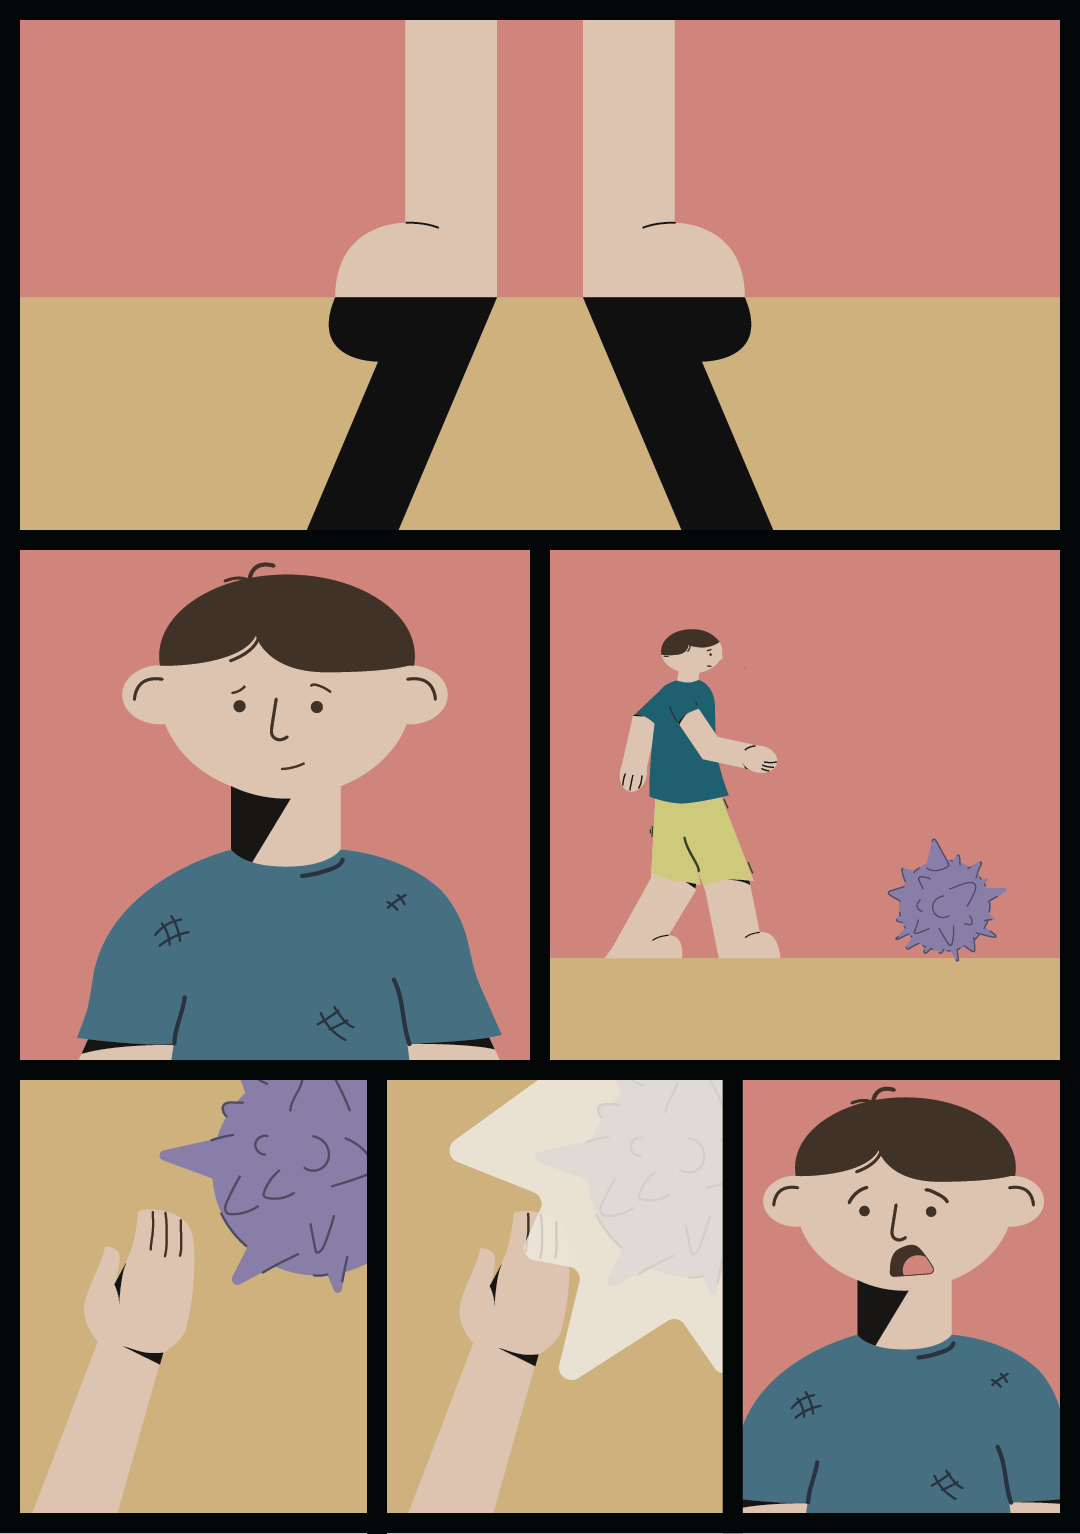
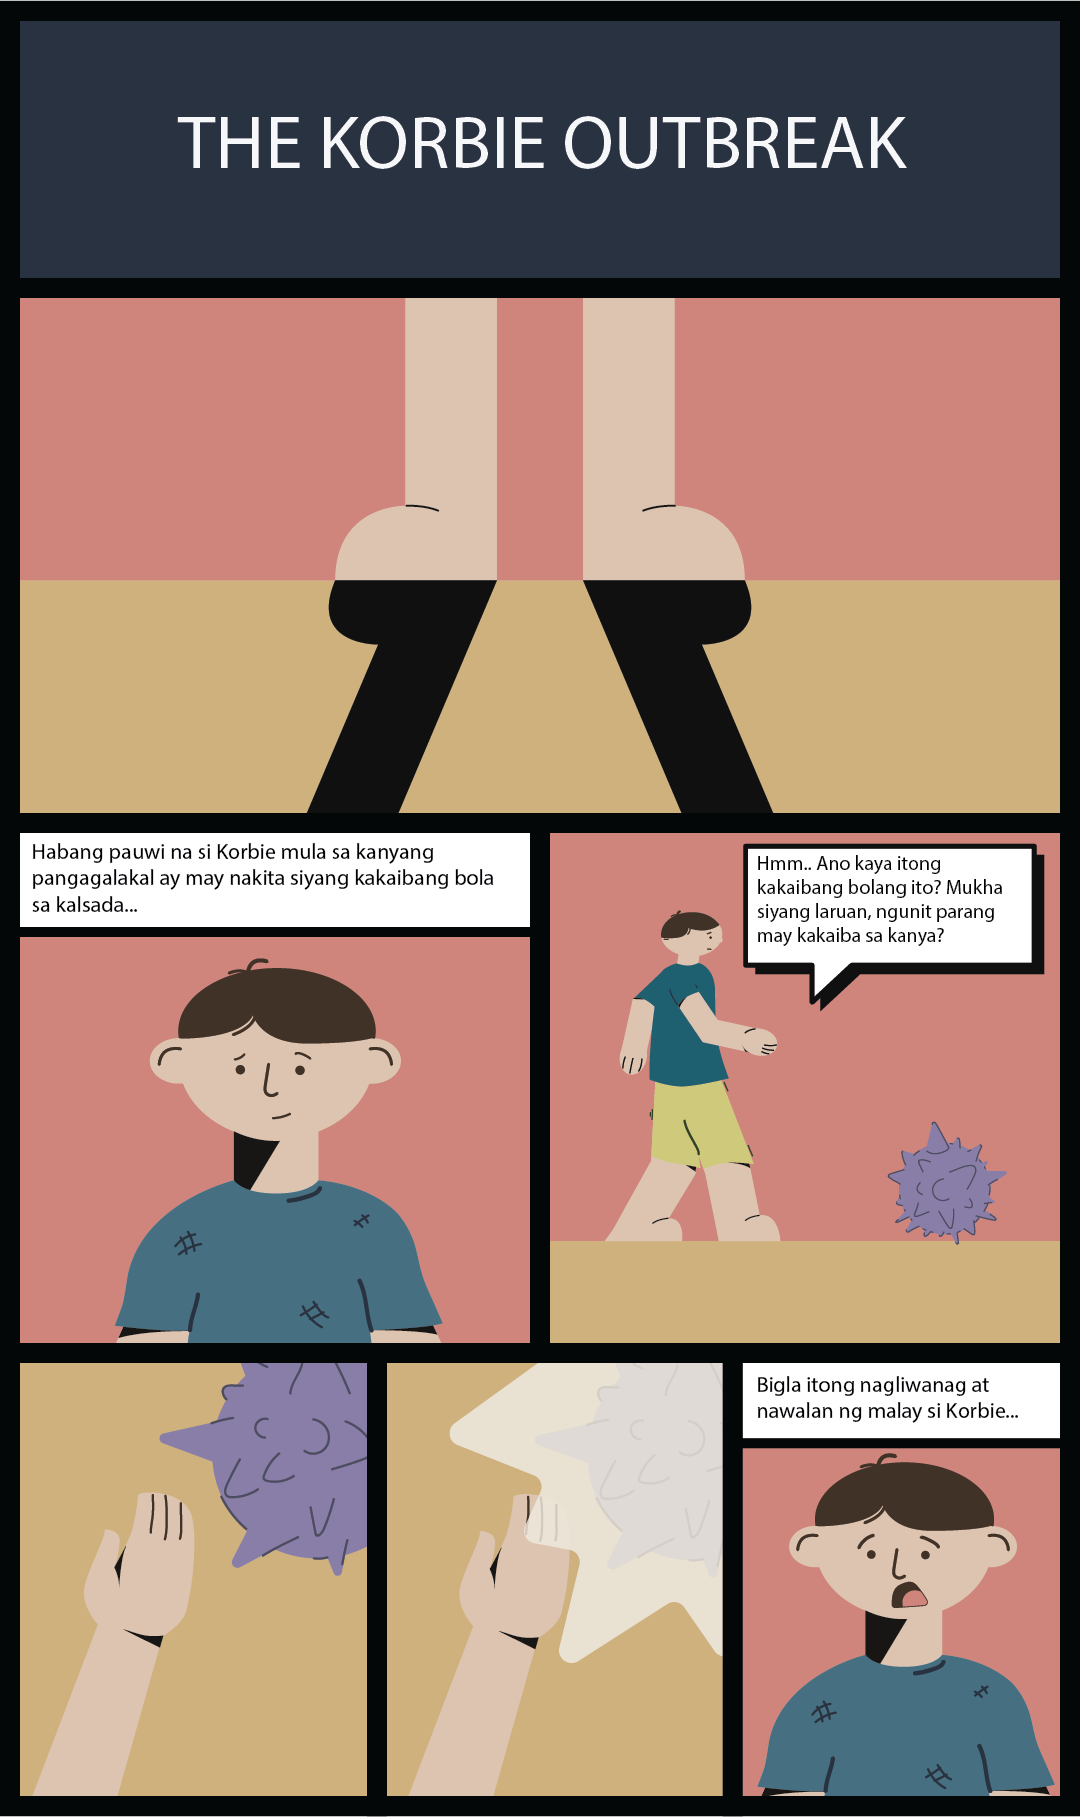
Updated: Assets

diff --git a/src/index.js b/src/index.js
@@ -27,31 +27,38 @@ const homeSwiper = new Swiper("#homeSwiper", {
 
 // INIT CHARACTERS
 // Import images first
-import sampleImage1 from "./assets/characters/sample-1.png";
-import sampleImage2 from "./assets/characters/sample-2.png";
+import imgFather from "./assets/characters/father.png";
+import imgKorbie from "./assets/characters/korbie.png";
+import imgPresident from "./assets/characters/president.png";
+import imgDoctor from "./assets/characters/doctor.png";
+import imgNurse from "./assets/characters/nurse.png";
 
-// Define Array of Characters
+// TODO: Define Character Details
 const characters = [
   {
-    name: "Sample Name 1",
-    subtitle: "Role / Subtitle",
-    description:
-      "Lorem ipsum, dolor sit amet consectetur adipisicing elit. Quae nisi ipsa accusamus quaerat obcaecati, laudantium ipsam dolorum. Amet repudiandae repellat eligendi sunt debitis pariatur quibusdam voluptates doloremque accusamus, saepe hic?",
-    image: sampleImage1,
+    name: "Korbie",
+    description: "The main character of the story.",
+    image: imgKorbie,
   },
   {
-    name: "Sample Name 2",
-    subtitle: "Role / Subtitle",
-    description:
-      "Lorem ipsum dolor sit amet consectetur adipisicing elit. Nam, non quasi nobis suscipit numquam sit ratione id similique. Quis maxime vitae voluptas, fugiat similique atque tempora sunt ea, fuga veritatis, corporis quas quidem quo at expedita nesciunt deserunt soluta impedit!",
-    image: sampleImage2,
+    name: "Korbie's Father",
+    description: "Father of Korbie",
+    image: imgFather,
   },
   {
-    name: "Sample Name 3",
-    subtitle: "Role / Subtitle",
-    description:
-      "Lorem ipsum, dolor sit amet consectetur adipisicing elit. Quae nisi ipsa accusamus quaerat obcaecati, laudantium ipsam dolorum. Amet repudiandae repellat eligendi sunt debitis pariatur quibusdam voluptates doloremque accusamus, saepe hic?",
-    image: sampleImage1,
+    name: "President",
+    description: "The president of the country.",
+    image: imgPresident,
+  },
+  {
+    name: "Doctor",
+    description: "The doctor that conducted tests for Korbie.",
+    image: imgDoctor,
+  },
+  {
+    name: "Nurse",
+    description: "Nurse in the hospital that cared for Korbie.",
+    image: imgNurse,
   },
 ];
 
@@ -70,7 +77,7 @@ slideTemplate.classList.add(
 );
 
 const characterImg = document.createElement("img");
-characterImg.classList.add("character-image", "col-span-1");
+characterImg.classList.add("character-image", "col-span-1", "p-5");
 
 const colContent = document.createElement("div");
 colContent.classList.add(
@@ -81,30 +88,17 @@ colContent.classList.add(
   "text-white"
 );
 
-const characterNameEl = document.createElement("h2");
-characterNameEl.classList.add("character-name", "text-2xl", "md:text-4xl");
-const characterSubtitleEl = document.createElement("h4");
-characterSubtitleEl.classList.add(
-  "character-subtitle",
-  "pt-1",
-  "text-lg",
-  "md:text-2xl"
-);
-const characterDescriptionEl = document.createElement("p");
-characterDescriptionEl.classList.add(
-  "character-description",
-  "pt-3",
-  "text-sm",
-  "md:text-base"
-);
+const characterNameEl = document.createElement("h1");
+characterNameEl.classList.add("character-name", "md:text-4xl");
 
-characterDescriptionEl.dataset.swiperParallax = "-50%";
-characterSubtitleEl.dataset.swiperParallax = "-100%";
+const characterDescriptionEl = document.createElement("h4");
+characterDescriptionEl.classList.add("character-description", "pt-3", "font-light");
+
+characterDescriptionEl.dataset.swiperParallax = "-100%";
 characterNameEl.dataset.swiperParallax = "-150%";
 characterImg.dataset.swiperParallax = "-200%";
 
 colContent.appendChild(characterNameEl);
-colContent.appendChild(characterSubtitleEl);
 colContent.appendChild(characterDescriptionEl);
 
 slideTemplate.appendChild(colContent);
@@ -114,10 +108,10 @@ slideTemplate.appendChild(characterImg);
 characters.forEach((c) => {
   const slide = slideTemplate.cloneNode(true);
 
-  slide.querySelector(".character-image").src = c.image;
-  slide.querySelector(".character-name").innerText = c.name;
-  slide.querySelector(".character-subtitle").innerText = c.subtitle;
-  slide.querySelector(".character-description").innerText = c.description;
+  slide.querySelector(".character-image").src = c?.image ?? "";
+  slide.querySelector(".character-name").innerText = c?.name ?? "";
+  slide.querySelector(".character-description").innerText =
+    c?.description ?? "";
 
   characterSwiperSlideContainer.appendChild(slide);
 });
@@ -149,5 +143,5 @@ const settingSwiper = new Swiper("#settingSwiper", {
   navigation: {
     nextEl: "#settingSwiper .swiper-button-next",
     prevEl: "#settingSwiper .swiper-button-prev",
-  }
+  },
 });

diff --git a/src/about.html b/src/about.html
@@ -108,74 +108,60 @@
         class="relative flex w-full h-full items-center justify-center flex-col text-white"
       >
         <h1>About StyleCode</h1>
-        <h5 class="pt-3 font-light">
+        <!-- <h5 class="pt-3 font-light">
           Lorem ipsum dolor sit amet consectetur adipisicing elit. Velit, iusto!
-        </h5>
+        </h5> -->
       </div>
     </div>
 
+    <!-- TODO: Replace Images -->
     <div class="container mx-auto py-10">
       <div class="text-center pb-10">
         <h2>Who We Are</h2>
         <p class="pt-3">
-          Lorem ipsum dolor sit amet, consectetur adipisicing elit. Aut, iusto.
-          Odit perferendis animi voluptatem commodi facere neque veniam itaque
-          nesciunt.
+          <!-- TODO: Update -->
+          We are a small team of four (4) members from Pamantasan ng Lungsod ng
+          Valenzuela. This is part of our requirements in Web Development and 2D
+          Multimedia and Arts.
         </p>
       </div>
 
       <div class="team grid sm:grid-cols-2 md:grid-cols-4">
         <div class="member">
           <img
-            src="./assets/characters/sample-1.png"
-            alt="[MEMBER_NAME]"
+            src=" ./assets/characters/president.png"
+            alt="Cabotaje, Mary Grace"
             class="member-image"
           />
-          <h3 class="member-name">[MEMBER_NAME]</h3>
-          <p class="pt-3">
-            Lorem ipsum dolor sit amet consectetur adipisicing elit. Eum
-            accusantium praesentium excepturi quos, magni tempore ipsa totam
-            maxime voluptatibus. Fuga.
-          </p>
+          <h3 class="member-name">Cabotaje, Mary Grace</h3>
+          <p class="pt-3"></p>
         </div>
         <div class="member">
           <img
-            src="./assets/characters/sample-1.png"
-            alt="[MEMBER_NAME]"
-            class="image"
+            src=" ./assets/characters/president.png"
+            alt="Ching, Christian Kyle"
+            class="member-image"
           />
-          <h3 class="member-name">[MEMBER_NAME]</h3>
-          <p class="pt-3">
-            Lorem ipsum dolor sit amet consectetur adipisicing elit. Eum
-            accusantium praesentium excepturi quos, magni tempore ipsa totam
-            maxime voluptatibus. Fuga.
-          </p>
+          <h3 class="member-name">Ching, Christian Kyle</h3>
+          <p class="pt-3"></p>
         </div>
         <div class="member">
           <img
-            src="./assets/characters/sample-1.png"
-            alt="[MEMBER_NAME]"
+            src=" ./assets/characters/president.png"
+            alt="Labordo, John Byrds"
             class="member-image"
           />
-          <h3 class="member-name">[MEMBER_NAME]</h3>
-          <p class="pt-3">
-            Lorem ipsum dolor sit amet consectetur adipisicing elit. Eum
-            accusantium praesentium excepturi quos, magni tempore ipsa totam
-            maxime voluptatibus. Fuga.
-          </p>
+          <h3 class="member-name">Labordo, John Byrds</h3>
+          <p class="pt-3"></p>
         </div>
         <div class="member">
           <img
-            src="./assets/characters/sample-1.png"
-            alt="[MEMBER_NAME]"
+            src=" ./assets/characters/president.png"
+            alt="Marcelo, Almar Glen"
             class="member-image"
           />
-          <h3 class="member-name">[MEMBER_NAME]</h3>
-          <p class="pt-3">
-            Lorem ipsum dolor sit amet consectetur adipisicing elit. Eum
-            accusantium praesentium excepturi quos, magni tempore ipsa totam
-            maxime voluptatibus. Fuga.
-          </p>
+          <h3 class="member-name">Marcelo, Almar Glen</h3>
+          <p class="pt-3"></p>
         </div>
       </div>
     </div>

diff --git a/src/index.html b/src/index.html
@@ -105,10 +105,10 @@
             <img src="./assets/comics/1.png" alt="" />
           </div>
           <div class="swiper-slide">
-            <img src="./assets/comics/2.jpg" alt="" />
+            <img src="./assets/comics/2.png" alt="" />
           </div>
           <div class="swiper-slide">
-            <img src="./assets/comics/3.jpg" alt="" />
+            <img src="./assets/comics/3.png" alt="" />
           </div>
         </div>
       </div>
@@ -117,11 +117,11 @@
       <div class="flex absolute-fill z-10">
         <div class="m-auto text-white text-center">
           <div class="container px-5">
-            <h1>[TITLE]</h1>
+            <h1>The Korbie Outbreak</h1>
             <p class="mt-5 md:text-lg">
-              Lorem ipsum dolor sit amet consectetur adipisicing elit. Quos
-              optio quibusdam voluptate cupiditate beatae porro eaque qui iste!
-              Reiciendis, maiores.
+              Explore the adventures in the life of Korbie, a kid that
+              experienced something bizarre one day that will forever change his
+              life.
             </p>
             <a
               href="./read.html"
@@ -163,15 +163,13 @@
     </div>
 
     <!-- TODO: SECTION 3 - Setting -->
-    <div class="section-3 container pb-20">
+    <!-- <div class="section-3 container pb-20">
       <h1 class="text-center pb-20">Discover What Happened in [SETTING]</h1>
 
       <div class="grid grid-cols-2">
         <div class="col-span-2 md:col-span-1">
-          <!-- Column Setting Image Gallery -->
           <div id="settingSwiper" class="swiper-container">
             <div class="swiper-wrapper">
-              <!-- Place Background images used in comics as Setting -->
               <div
                 class="swiper-slide"
                 style="background-image: url('./assets/setting/1.jpg')"
@@ -189,7 +187,6 @@
             <div class="swiper-button-next"></div>
           </div>
         </div>
-        <!-- Column Description -->
         <div class="col-span-2 md:col-span-1 text-center md:text-left p-10">
           <h2 class="pb-5">Name of Place</h2>
           <p>
@@ -204,9 +201,8 @@
           </p>
         </div>
       </div>
-    </div>
+    </div> -->
 
-    <!-- Footer : Copy this to other pages -->
     <footer class="bg-indigo-900 text-gray-300 text-center p-10">
       <h3>StyleCode</h3>
       <ul class="pt-3 md:flex md:items-center md:justify-center md:space-x-5">

diff --git a/src/read.js b/src/read.js
@@ -12,8 +12,8 @@ Swiper.use([Pagination]);
 
 // Initialize Swiper Slides
 const slideContainer = document.querySelector("#comicViewer .swiper-wrapper");
-const preloader = document.createElement('div')
-preloader.classList.add('swiper-lazy-preloader')
+const preloader = document.createElement("div");
+preloader.classList.add("swiper-lazy-preloader");
 
 Object.values(comicAssets).forEach((obj, index) => {
   const imageSrc = obj[Object.keys(obj)[0]];
@@ -22,8 +22,8 @@ Object.values(comicAssets).forEach((obj, index) => {
   slideEl.classList.add("swiper-slide");
 
   const imgEl = document.createElement("img");
-  imgEl.classList.add('w-full')
-  imgEl.loading = 'lazy'
+  imgEl.classList.add("w-full");
+  imgEl.loading = "lazy";
   imgEl.src = imageSrc;
   imgEl.alt = "Page " + (index + 1);
 
@@ -36,6 +36,7 @@ Object.values(comicAssets).forEach((obj, index) => {
 const comicViewer = new Swiper("#comicViewer", {
   allowTouchMove: false,
   autoplay: false,
+  autoHeight: true,
   pagination: {
     el: "#comicViewer .swiper-pagination",
     bulletClass: "pagination-item",
@@ -48,17 +49,17 @@ const comicViewer = new Swiper("#comicViewer", {
 });
 
 // Assign Page Numbers
-const currentPage = document.querySelector('.current');
-const totalPages = document.querySelector('.total');
+const currentPage = document.querySelector(".current");
+const totalPages = document.querySelector(".total");
 
-currentPage.innerText = 1
-totalPages.innerText = Object.keys(comicAssets).length
+currentPage.innerText = 1;
+totalPages.innerText = Object.keys(comicAssets).length;
 
 // Event Listener - onSlideChange
 comicViewer.on("slideChange", (swiper) => {
-  currentPage.innerText = swiper.activeIndex + 1
+  currentPage.innerText = swiper.activeIndex + 1;
   window.scrollTo({
     top: 0,
-    behavior: 'smooth'
-  })
-})
+    behavior: "smooth",
+  });
+});
